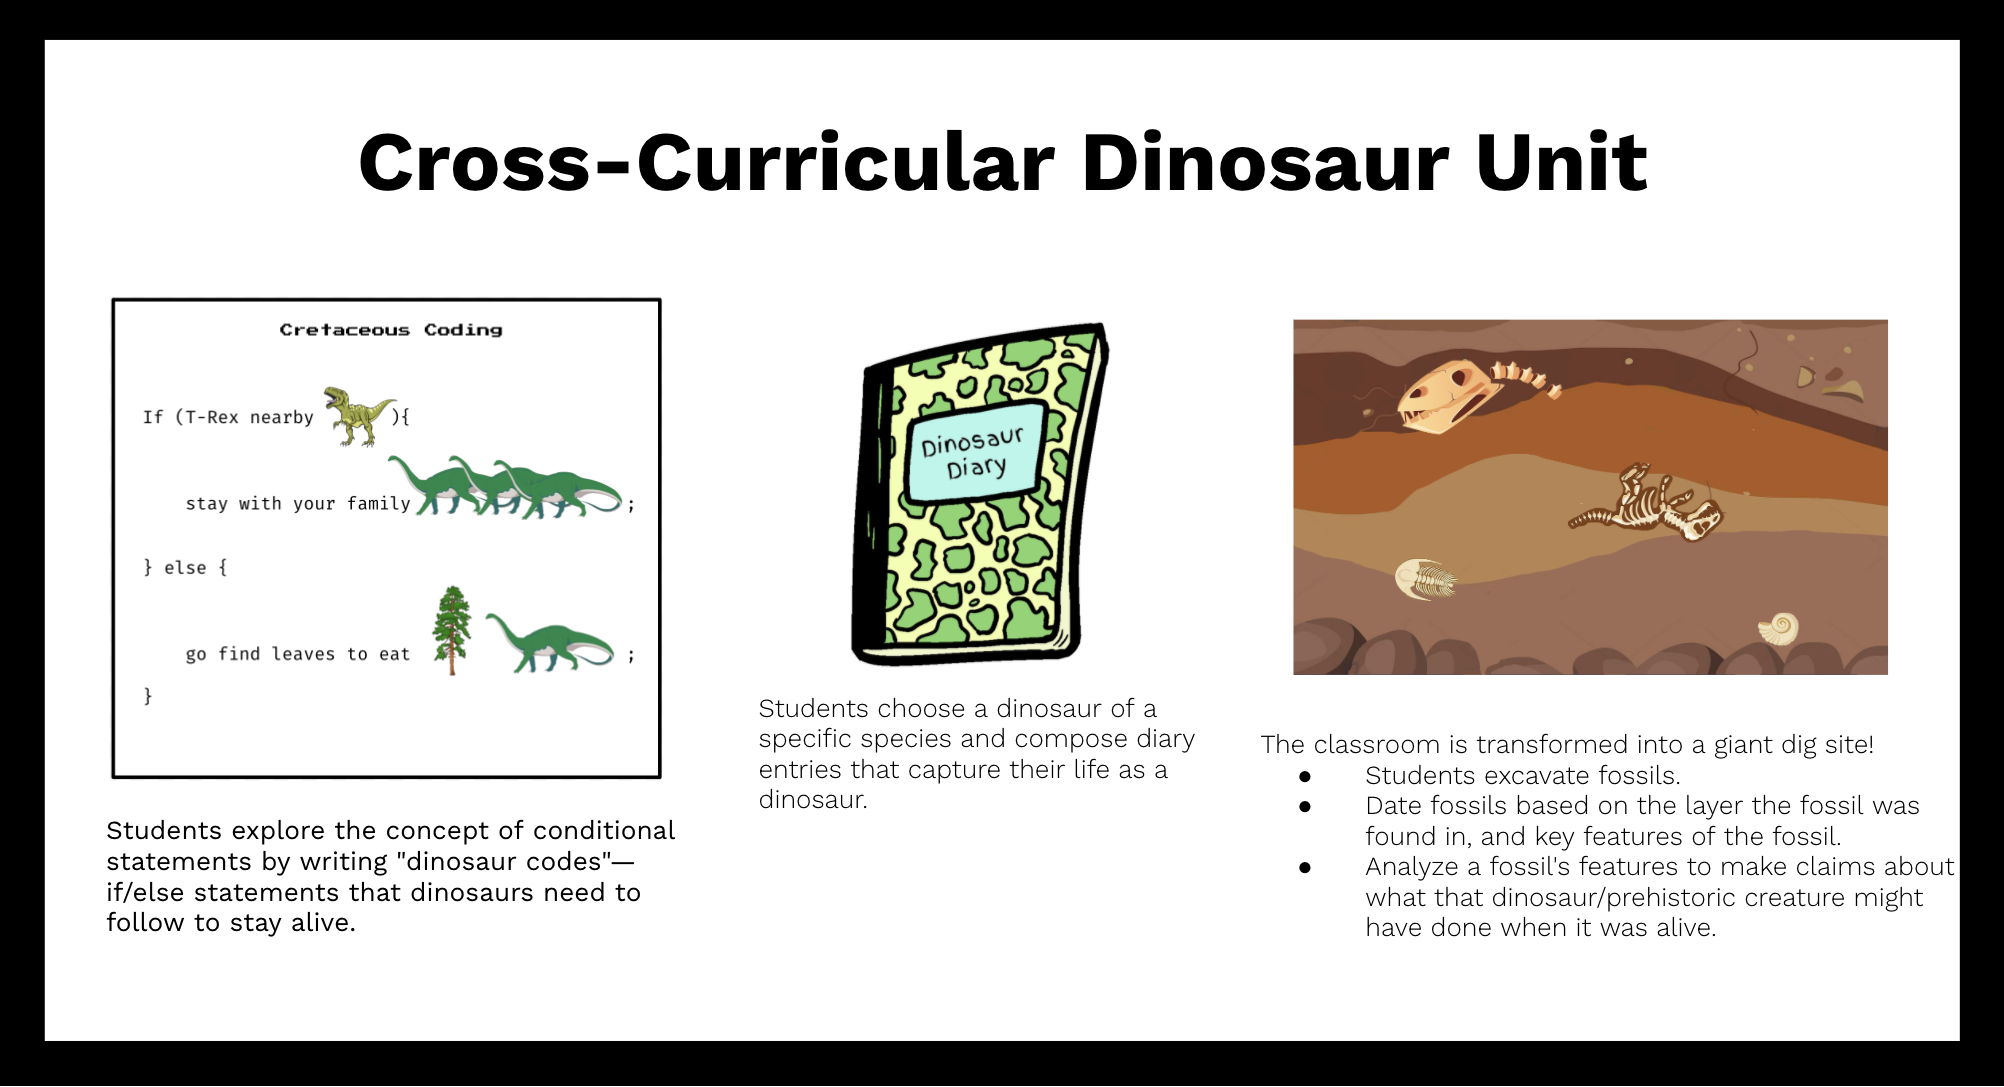
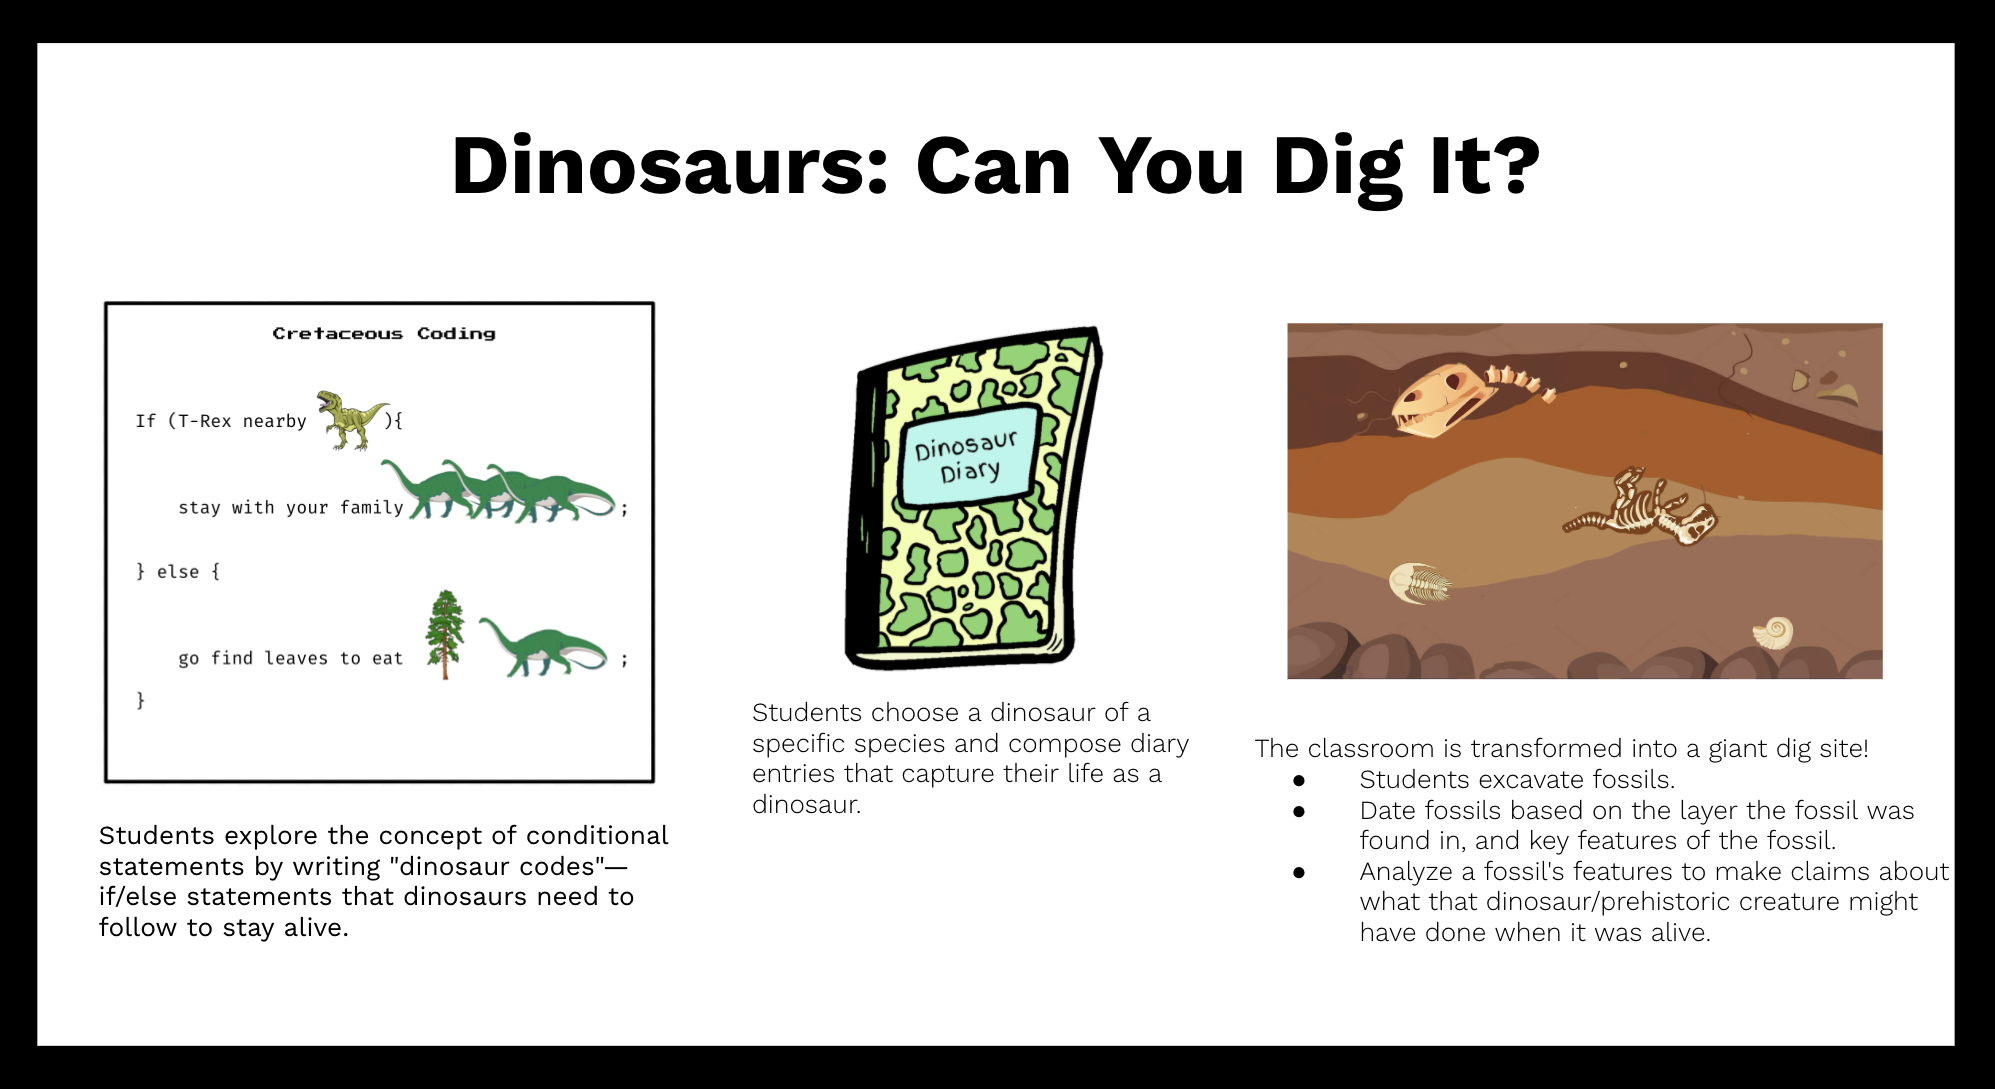
edited dinos

diff --git a/index.html b/index.html
@@ -195,9 +195,9 @@
           <div class="col-lg-4 col-md-6 portfolio-item filter-web">
             <img src="assets/img/dino2.png" class="img-fluid" alt="">
             <div class="portfolio-info">
-              <h4>Cross-Curricular<br>Dinosaur Unit</h4>
+              <h4>"Dinosaurs: Can You Dig It?":<br>A Cross-Curricular Design Project</h4>
               <p>Designed a cross-urricular Dinosaur Unit (for students grades 2-5), which incorporates coding and creative writing/storytelling, and concludes with a Dinosaur Excavation performance task.</p>
-              <a href="assets/img/dino.png" data-gall="portfolioGallery" class="venobox preview-link" title="Cross-Curricular Dinosaur Unit"><i class="bx bx-plus"></i></a>
+              <a href="assets/img/dino.png" data-gall="portfolioGallery" class="venobox preview-link" title="Cross-Curricular Design"><i class="bx bx-plus"></i></a>
               <!-- <a href="portfolio-details.html" class="details-link" title="More Details"><i class="bx bx-link"></i></a> -->
             </div>
           </div>
